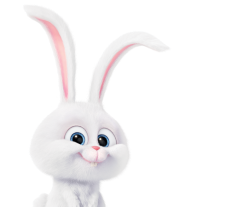
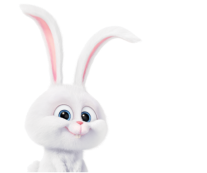
fix image footer

diff --git a/css/_media-query.css b/css/_media-query.css
@@ -102,25 +102,26 @@
   }
   .footer__copyright {
     flex-direction: row;
-    justify-content: space-around;
+    justify-content: space-between;
   }
   .footer__snowball {
     position: absolute;
-    width: 232px;
+    width: 193px;
     height: 100%;
     top: 0;
-    left: 0;
+    left: -10;
     background-image: url("../img/snowball.png");
     background-repeat: no-repeat;
     background-position: center bottom;
     object-fit: cover;
+    display: block;
   }
   .footer__max {
     position: absolute;
     width: 193px;
     height: 100%;
     top: 0;
-    right: 0;
+    right: -25;
     background-image: url("../img/max.png");
     background-repeat: no-repeat;
     background-position: center bottom;

diff --git a/css/_footer.css b/css/_footer.css
@@ -34,6 +34,9 @@ footer {
 .footer__wrapper li {
   font-size: 14px;
 }
+.footer__wrapper li {
+  margin-bottom: 10px;
+}
 .footer__wrapper ul li::before {
   content: "\2022"; /* Add content: \2022 is the CSS Code/unicode for a bullet */
   color: var(--yellow-color); /* Change the color */
@@ -65,8 +68,7 @@ footer {
   flex-direction: column;
   align-items: center;
   justify-content: center;
-  padding-top: 18px;
-  padding-bottom: 18px;
+  padding: 15px 65px 15px 65px;
 }
 .footer__copyright p {
   margin-top: 15px;

diff --git a/index.html b/index.html
@@ -217,8 +217,6 @@
                 <li>Term and condition</li>
               </ul>
             </div>
-            <div class="footer__snowball"></div>
-            <div class="footer__max"></div>
           </div>
         </div>
       </div>
@@ -228,6 +226,8 @@
             <p>© 2019 Universal Studios</p>
             <p>Create with &#10084; by KuchingNeko</p>
           </div>
+          <div class="footer__snowball"></div>
+          <div class="footer__max"></div>
         </div>
       </div>
     </footer>
